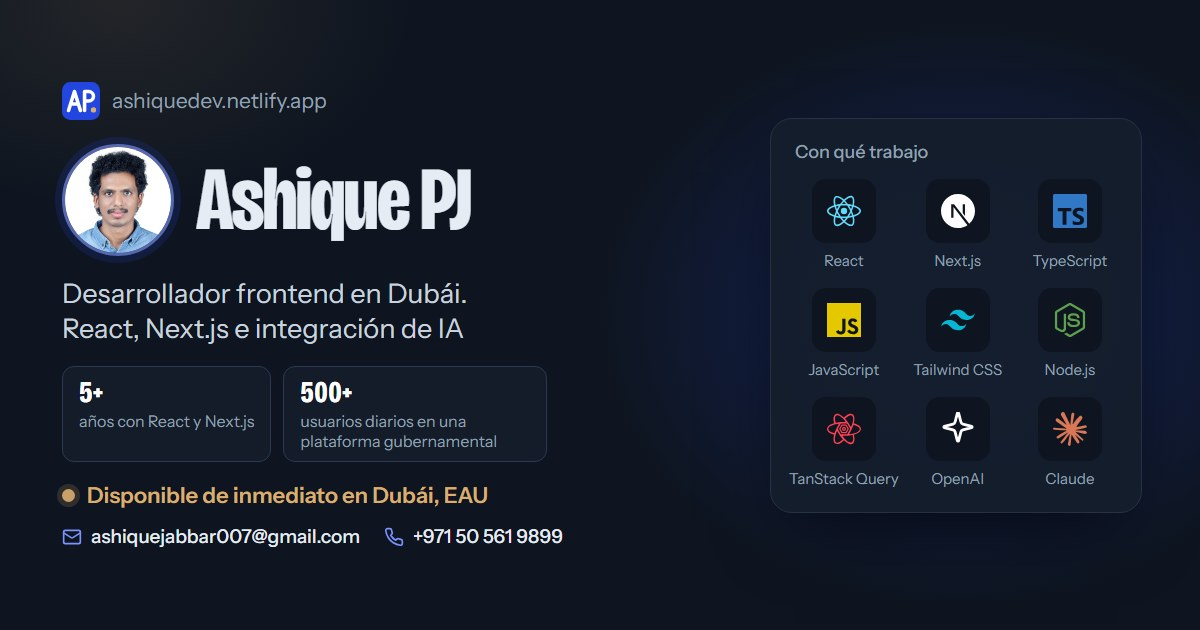
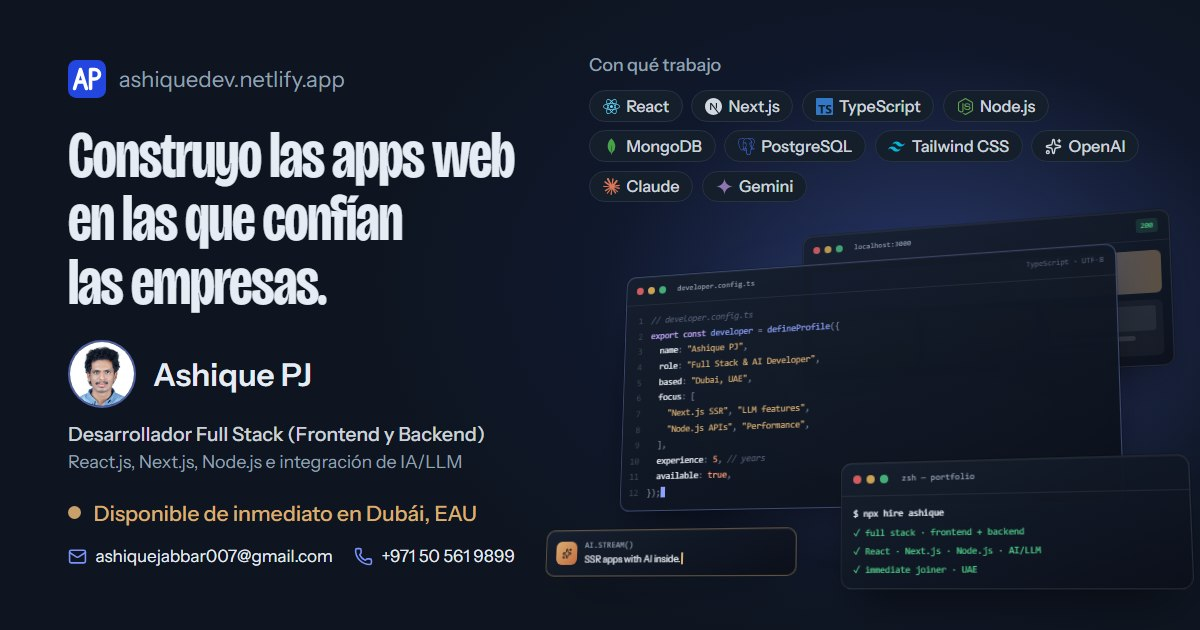
Redesign share images in the hero's style
New 1200x630 share cards for all five languages: hero headline, photo,
full stack role line, availability and contact on one side; key skills
and the 3D code workspace on the other. Bump ?v= so apps refetch them.

diff --git a/src/app/[lang]/layout.tsx b/src/app/[lang]/layout.tsx
@@ -40,7 +40,7 @@ export async function generateMetadata({ params }: LayoutProps<"/[lang]">): Prom
   const { meta } = await getDictionary(lang);
   // Ready-made files (public/og/), not generated per request: WhatsApp drops images that load slowly.
   // Bump ?v= when the images change, so apps that cached the old one fetch it again.
-  const shareImage = { url: `/og/${lang}.jpg?v=4`, width: 1200, height: 630, alt: meta.ogImageAlt, type: "image/jpeg" };
+  const shareImage = { url: `/og/${lang}.jpg?v=5`, width: 1200, height: 630, alt: meta.ogImageAlt, type: "image/jpeg" };
 
   return {
     metadataBase: new URL("https://ashiquedev.netlify.app"),
